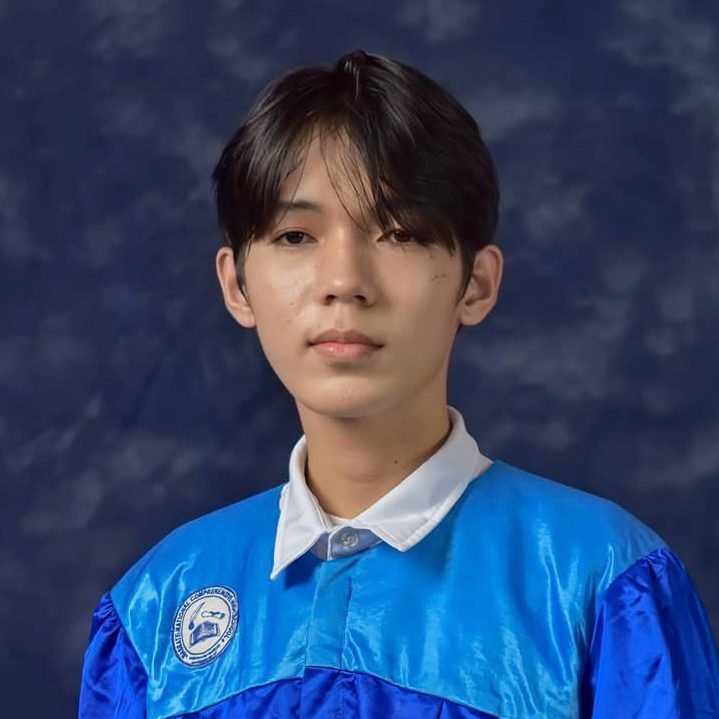
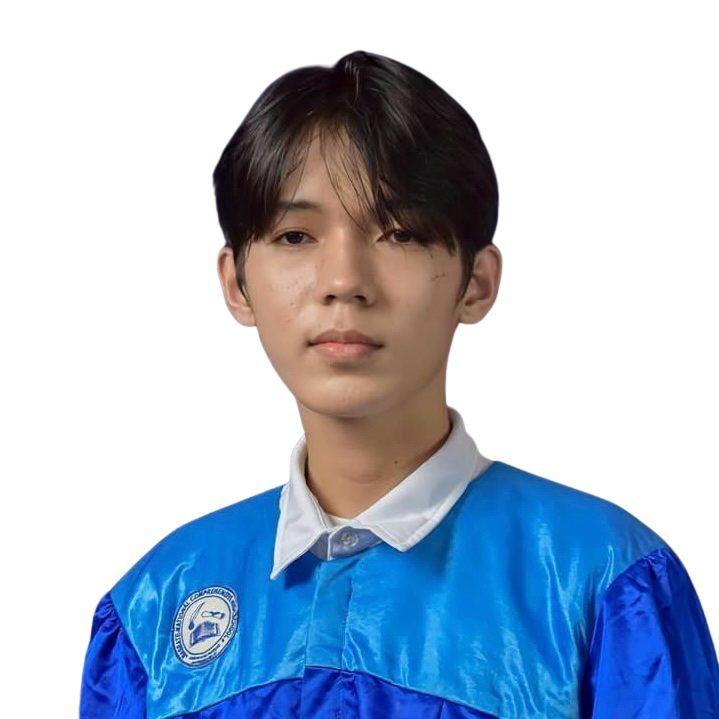
patch 3.2 improving contact and team photo layouts

diff --git a/frontend/src/pages/ContactPage.jsx b/frontend/src/pages/ContactPage.jsx
@@ -11,7 +11,7 @@ const teamMembers = [
     email: "nickcarter.lacanglacang@cit.edu",
     privateEmail: "ng112403@gmail.com",
     phone: "09931672343",
-    avatar: "/team/nick.jpg",
+    avatar: "/team/nick.png",
     fallback: "https://api.dicebear.com/7.x/avataaars/svg?seed=Nick",
     neonColor: "from-red-600 to-orange-500",
     borderColor: "border-red-600"
@@ -20,7 +20,7 @@ const teamMembers = [
     name: "Louie James Carbungco",
     role: "UI/UX Designer & Frontend Developer",
     email: "louiejames.carbungco@cit.edu",
-    avatar: "/team/louie.jpg",
+    avatar: "/team/louie.png",
     fallback: "https://api.dicebear.com/7.x/avataaars/svg?seed=Louie",
     neonColor: "from-orange-600 to-yellow-500",
     borderColor: "border-orange-600"
@@ -29,7 +29,7 @@ const teamMembers = [
     name: "Jierelle Jane Ravanes",
     role: "AI Research & Quality Assurance",
     email: "jierellejane.ravanes@cit.edu",
-    avatar: "/team/jierelle.jpg",
+    avatar: "/team/jierelle.png",
     fallback: "https://api.dicebear.com/7.x/avataaars/svg?seed=Jierelle",
     neonColor: "from-yellow-600 to-green-500",
     borderColor: "border-yellow-500"
@@ -38,7 +38,7 @@ const teamMembers = [
     name: "Rigel Baltazar",
     role: "Project Leader & Initiator",
     email: "rigel.baltazar@cit.edu",
-    avatar: "/team/rigel.jpg",
+    avatar: "/team/rigel.png",
     fallback: "https://api.dicebear.com/7.x/avataaars/svg?seed=Rigel",
     neonColor: "from-green-600 to-blue-500",
     borderColor: "border-green-600"
@@ -47,7 +47,7 @@ const teamMembers = [
     name: "Yoshinori Kyono",
     role: "Backend & Cloud Integration Specialist",
     email: "yoshinori.kyono@cit.edu",
-    avatar: "/team/yoshinori.jpg",
+    avatar: "/team/yoshinori.png",
     fallback: "https://api.dicebear.com/7.x/avataaars/svg?seed=Yoshinori",
     neonColor: "from-blue-600 to-violet-500",
     borderColor: "border-blue-600"
@@ -160,7 +160,7 @@ const ContactPage = () => {
                   {/* Card content with solid background and no border */}
                   <div className="relative z-10 bg-muted/80 dark:bg-slate-900/60 rounded-2xl flex flex-col items-center text-center group overflow-hidden h-[400px] w-full p-8" style={{ minHeight: '400px', maxWidth: '100%' }}>
                     <div className={`mb-4 flex justify-center`}>
-                      <div className={`w-20 h-20 rounded-full border-4 border-gradient-to-br ${borderGradient} p-1 relative group-hover:scale-105 transition-transform duration-300 bg-background`}>
+                      <div className={`w-20 h-20 rounded-full border-4 border-gradient-to-br ${borderGradient} p-1 relative group-hover:scale-105 transition-transform duration-300 bg-transparent`}>
                         <img
                           src={member.avatar}
                           alt={member.name}
@@ -176,7 +176,7 @@ const ContactPage = () => {
                       </h3>
                     </div>
                     {/* Title section */}
-                    <div className="flex items-center justify-center w-full h-12 min-h-[48px] mt-5">
+                    <div className="flex items-center justify-center w-full h-12 min-h-[48px] mt-10">
                       <p className="text-lg font-bold text-foreground mb-0 w-full flex items-center justify-center">
                         {member.role}
                       </p>

diff --git a/frontend/src/pages/AboutPage.jsx b/frontend/src/pages/AboutPage.jsx
@@ -19,7 +19,7 @@ const AboutPage = () => {
       role: "Full Stack Developer & Team Lead",
       bio: "Lead developer and architect behind RetailSense, specializing in full-stack development and system architecture. Drives the technical vision and implementation of our retail analytics platform, ensuring robust and scalable solutions.",
       email: "nickcarter.lacanglacang@cit.edu",
-      image: "/team/nick.jpg",
+      image: "/team/nick.png",
       fallbackImage: "https://api.dicebear.com/7.x/avataaars/svg?seed=Nick",
       neonColor: "from-red-600 to-orange-500"
     },
@@ -28,7 +28,7 @@ const AboutPage = () => {
       role: "UI/UX Designer & Frontend Developer",
       bio: "Creative designer behind RetailSense's visual identity, responsible for the app's logo, color schemes, and overall user experience design. Specializes in creating intuitive and visually appealing interfaces.",
       email: "louiejames.carbungco@cit.edu",
-      image: "/team/louie.jpg",
+      image: "/team/louie.png",
       fallbackImage: "https://api.dicebear.com/7.x/avataaars/svg?seed=Louie",
       neonColor: "from-orange-600 to-yellow-500"
     },
@@ -37,7 +37,7 @@ const AboutPage = () => {
       role: "AI Research & Quality Assurance",
       bio: "Key contributor to RetailSense's AI implementation, specializing in computer vision research and testing. Led the research and integration of YOLO and DeepSORT algorithms, while conducting extensive research to validate our approach. Plays a crucial role in quality assurance and bug fixing.",
       email: "jierellejane.ravanes@cit.edu",
-      image: "/team/jierelle.jpg",
+      image: "/team/jierelle.png",
       fallbackImage: "https://api.dicebear.com/7.x/avataaars/svg?seed=Jierelle",
       neonColor: "from-yellow-600 to-green-500"
     },
@@ -46,7 +46,7 @@ const AboutPage = () => {
       role: "Project Leader & Initiator",
       bio: "Pioneered the RetailSense project, laying the foundational groundwork and initial architecture. His vision and early development efforts set the stage for what would become a comprehensive retail analytics platform.",
       email: "rigel.baltazar@cit.edu",
-      image: "/team/rigel.jpg",
+      image: "/team/rigel.png",
       fallbackImage: "https://api.dicebear.com/7.x/avataaars/svg?seed=Rigel",
       neonColor: "from-green-600 to-blue-500"
     },
@@ -55,7 +55,7 @@ const AboutPage = () => {
       role: "Backend & Cloud Integration Specialist",
       bio: "Specialized in backend development and cloud infrastructure, with expertise in database management and API integration. Contributed to the planning and architecture of RetailSense's backend systems and cloud infrastructure.",
       email: "yoshinori.kyonojr@cit.edu",
-      image: "/team/yoshinori.jpg",
+      image: "/team/yoshinori.png",
       fallbackImage: "https://api.dicebear.com/7.x/avataaars/svg?seed=Yoshinori",
       neonColor: "from-blue-600 to-violet-500"
     }
